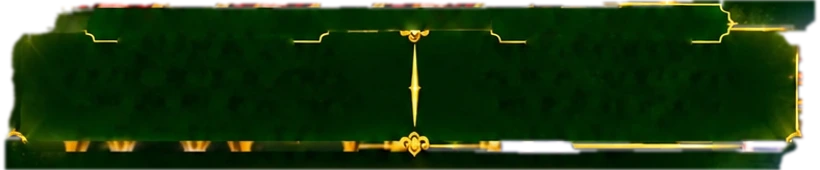
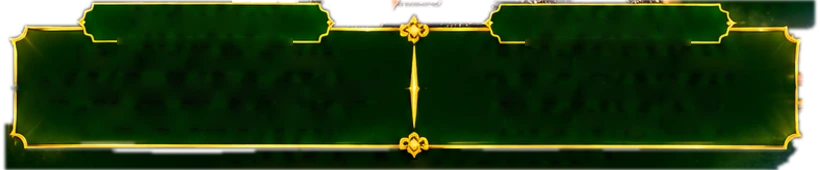
Use crisp families panels over the clean background
The clean emerald background draws the 'The Families of' panels poorly
(missing top border, unframed tabs, crowd specks below). Layer the crisp
panels cut from the earlier render of the same design on top instead
(tools/poster-build/panels-v5.webp); position and wording unchanged.

Changed region(s): [[0.0, 0.0, 1.0, 1.0], [0.8232, 0.2059, 0.8841, 0.2647], [0.6098, 0.2353, 0.6402, 0.2647]]

diff --git a/tools/poster-build/build-v6.js b/tools/poster-build/build-v6.js
@@ -36,7 +36,11 @@ const ss = (t) => (t <= 0 ? 0 : t >= 1 ? 1 : t * t * (3 - 2 * t));
     for (let y = PY0; y < Math.max(PY0, top - 4); y++) pm[y * W + x] = 0;
   }
   let pa = new Float32Array(W * H); for (let i = 0; i < W * H; i++) pa[i] = pm[i]; pa = boxBlurF(pa, 1, W, H);
-  await layer('front', [120, PY0, 940, PY1], pa);
+  // The clean background draws these panels poorly (no top border, unframed tabs), so the front layer uses the
+  // crisp panels cut from the earlier render of the same design (panels-v5.webp, wording removed; same position).
+  require('fs').copyFileSync(__dirname + '/panels-v5.webp', OUT + '/front.webp');
+  console.log('front (from panels-v5.webp)', { x: 120, y: PY0, w: 820, h: 170 });
+  void pa; void layer;
   // gold title + rings
   const tBox = [722, 30, 1060, 262], tm = new Uint8Array(W * H);
   for (let y = tBox[1]; y < tBox[3]; y++) for (let x = tBox[0]; x < tBox[2]; x++) { const i = y * W + x, r = bg[i * 3], g = bg[i * 3 + 1], b = bg[i * 3 + 2]; if ((r > 100 && r - b > 45 && g > 0.5 * r) || lum(bg, i) > 190) tm[i] = 1; }
